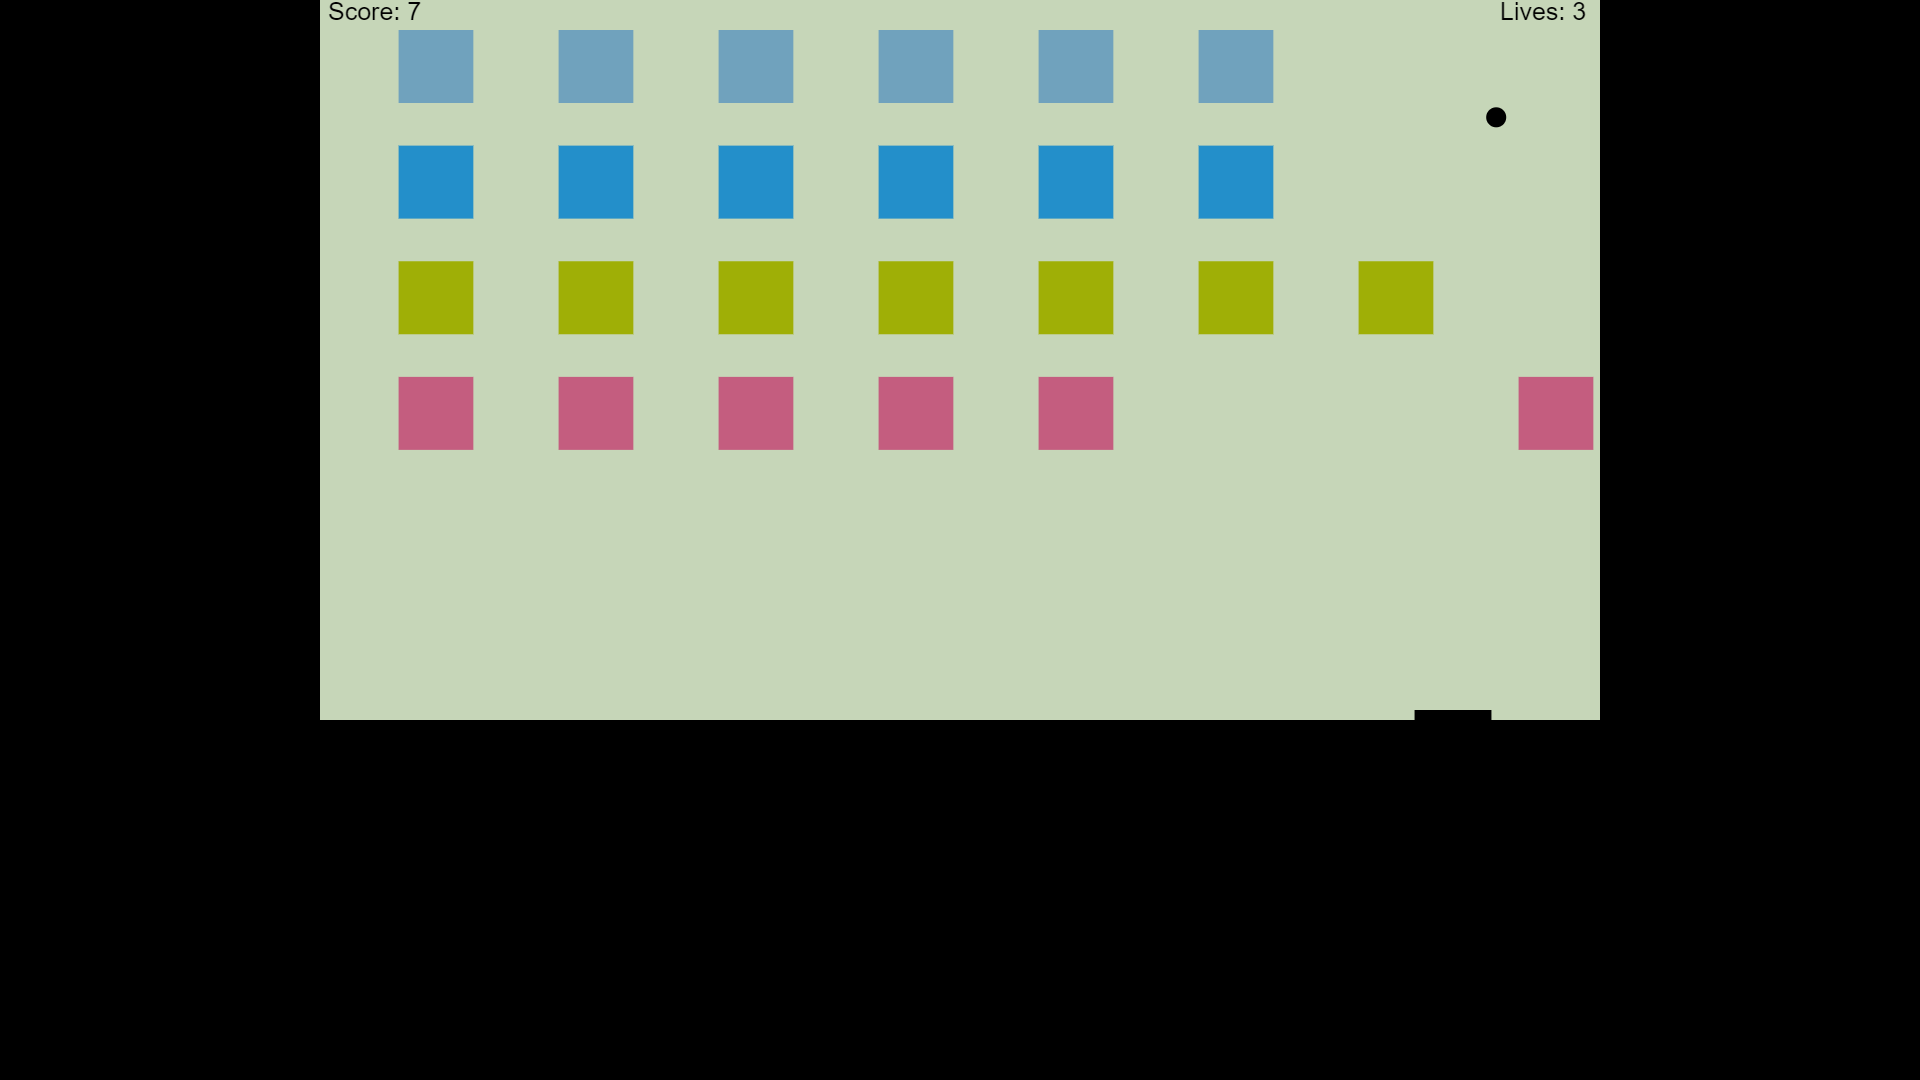
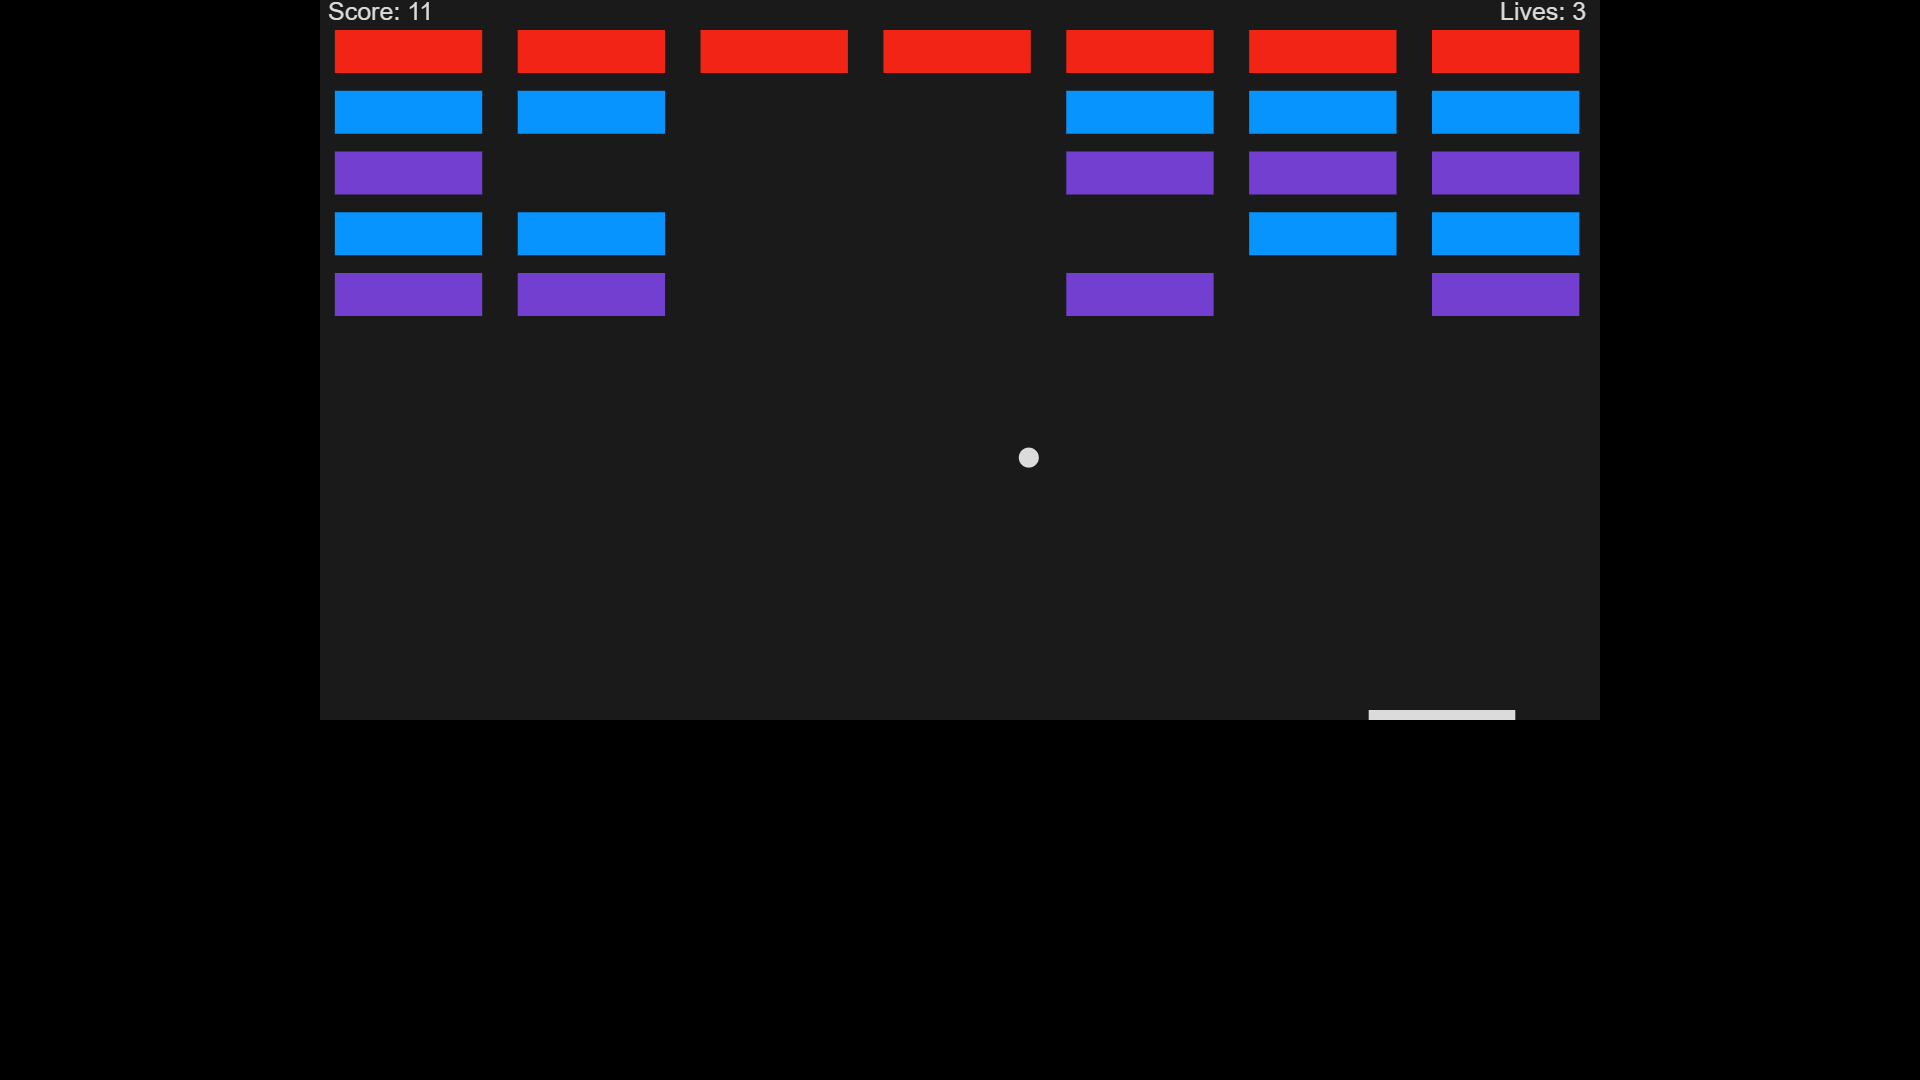
new color scheme

diff --git a/src/Canvas.js b/src/Canvas.js
@@ -25,10 +25,10 @@ function Canvas() {
   // var brickHeight = 60;
   // var brickPadding = 10;
 
-  var brickRowCount = Math.floor(4 * Math.random()) + 1;
-  var brickColumnCount = Math.floor(10 * Math.random()) + 1;
+  var brickRowCount = Math.floor(4 * Math.random()) + 2;
+  var brickColumnCount = Math.floor(10 * Math.random()) + 4;
   var brickSpace = 1280 / brickColumnCount;
-  var brickWidth = brickSpace * Math.random(30) + 30;
+  var brickWidth = (brickSpace - 20) * Math.random();
   var brickPadding = brickSpace - brickWidth;
   var brickHeight = Math.floor(60 * Math.random()) + 30;
 
@@ -37,7 +37,7 @@ function Canvas() {
   var brickOffsetCap = brickPadding;
 
   var bricks = [];
-  var brickColors = [];
+  var brickColors = ['#f22416', '#f2a516', '#fbff26', '#4ff00a', '#00ff77', '#00e2ed', '#0894ff', '#8095ff', '#723fd1', '#cb2af7', '#ff0dc7'];
   var brickShiftLeft = true;
   var brickSpeed = Math.random() * .5;
 
@@ -94,7 +94,7 @@ function Canvas() {
   function drawBall() {
     ctx.beginPath();
     ctx.arc(x, y, ballRadius, 0, Math.PI * 2);
-    ctx.fillStyle = "black";
+    ctx.fillStyle = "#dbdbdb";
     ctx.fill();
     ctx.closePath();
   }
@@ -102,14 +102,14 @@ function Canvas() {
   function drawPaddle() {
     ctx.beginPath();
     ctx.rect(paddleX, canvas.height - paddleHeight, paddleWidth, paddleHeight);
-    ctx.fillStyle = "black";
+    ctx.fillStyle = "#dbdbdb";
     ctx.fill();
     ctx.closePath();
   }
 
   function drawLives() {
     ctx.font = "25px Helvetica";
-    ctx.fillStyle = "black";
+    ctx.fillStyle = "#dbdbdb";
     ctx.fillText("Lives: " + lives, canvas.width - 100, 20);
   }
 
@@ -170,10 +170,10 @@ function Canvas() {
         var b = bricks[c][r];
         if (b.status == 1) {
           if (x > b.x && x < b.x + brickWidth && y > b.y && y < b.y + brickHeight) {
-            if(y - ballSpeed <= b.y || y >= b.y + brickHeight - ballSpeed){
+            if (y - ballSpeed <= b.y || y >= b.y + brickHeight - ballSpeed) {
               dy = -dy;
             }
-            else{
+            else {
               dx = -dx;
             }
             b.status = 0;
@@ -190,17 +190,12 @@ function Canvas() {
 
   function drawScore() {
     ctx.font = "25px Helvetica";
-    ctx.fillStyle = "black";
+    ctx.fillStyle = "#dbdbdb";
     ctx.fillText("Score: " + score, 8, 20);
   }
 
   function getRandomColor() {
-    var letters = '0123456789ABCDEF';
-    var color = '#';
-    for (var i = 0; i < 6; i++) {
-      color += letters[Math.floor(Math.random() * 16)];
-    }
-    return color;
+    return brickColors[Math.floor(Math.random() * 11)];
   }
 
   function keyDownHandler(e) {

diff --git a/src/Canvas.css b/src/Canvas.css
@@ -1,5 +1,5 @@
 canvas { 
-    background: #c6d6b8;
+    background: #1a1a1a;
     padding-left: 0;
     padding-right: 0;
     margin-left: auto;
